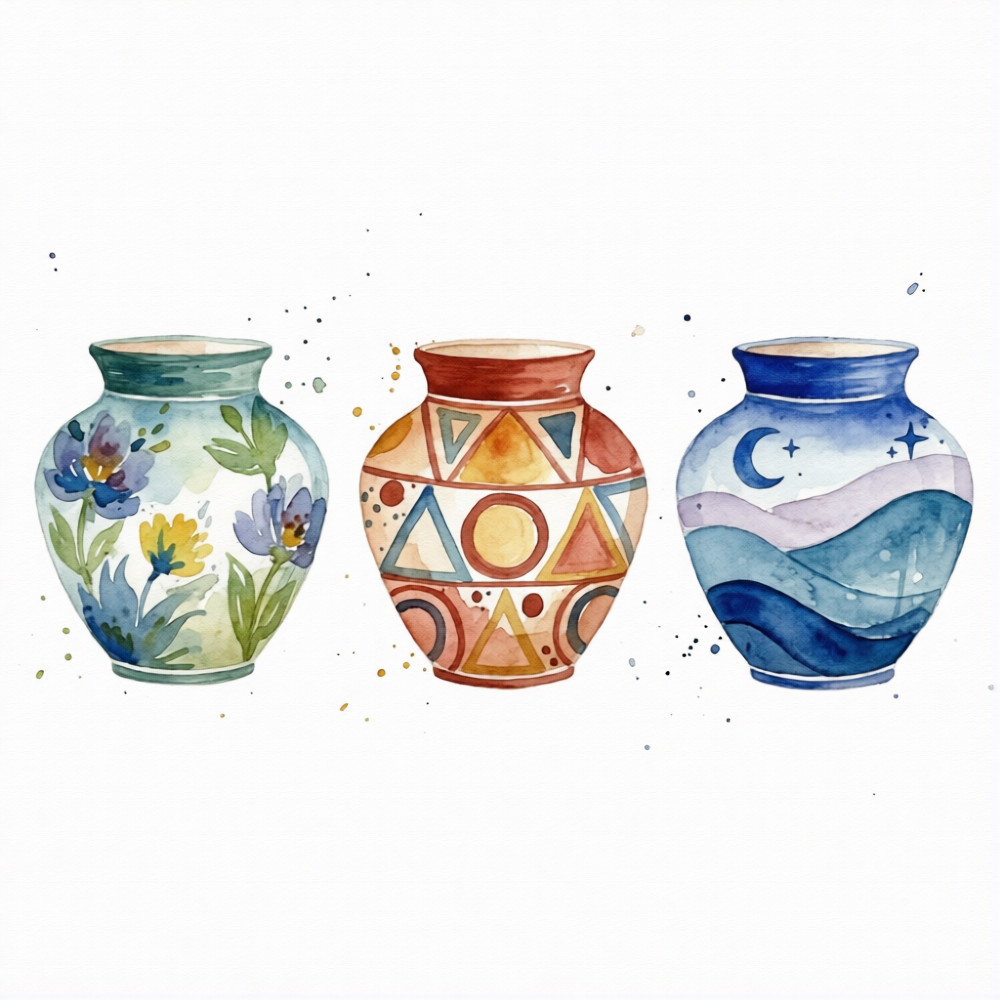
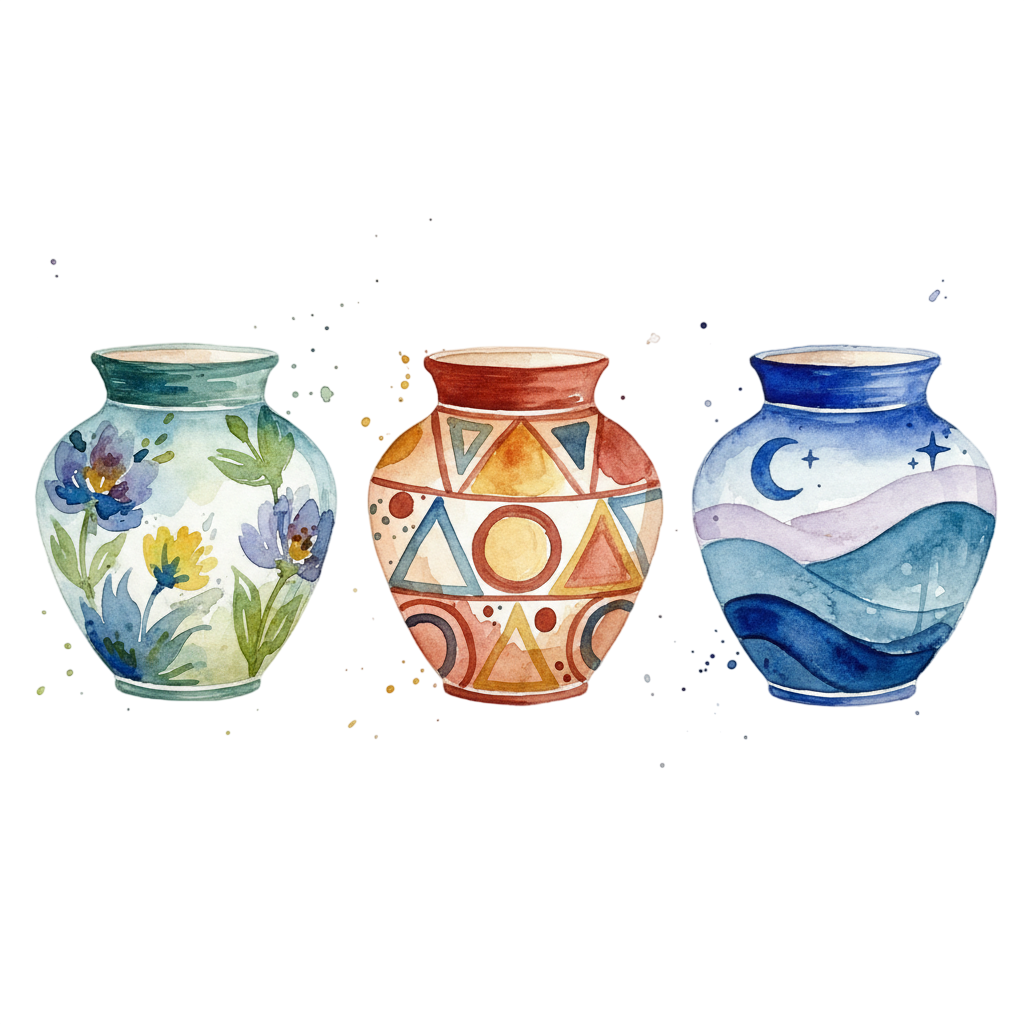
Update: refined features hover with universal pastel glow and improved layout

diff --git a/index.html b/index.html
@@ -3,68 +3,85 @@
 <head>
     <meta charset="UTF-8">
     <meta name="viewport" content="width=device-width, initial-scale=1.0">
-    <title>Document</title>
+    <title>Quiet Garden</title>
     <link rel="stylesheet" href="style.css">
 </head>
 <body>
     <header>
-  <nav class="navbar-center">
-    <ul class="nav-links left">
-      <li><a href="#hero">Home</a></li>
-      <li><a href="#features">Features</a></li>
-    </ul>
+        <nav class="navbar-center">
+            <ul class="nav-links left">
+                <li><a href="#hero">Home</a></li>
+                <li><a href="#features">Features</a></li>
+            </ul>
 
-    <div class="logo">
-      <img src="logo.png" alt="Quiet Garden Logo">
-    </div>
+            <div class="logo">
+                <img src="logo.png" alt="Quiet Garden Logo">
+            </div>
 
-    <ul class="nav-links right">
-      <li><a href="#about">About</a></li>
-      <li><a href="#contact">Contact</a></li>
-    </ul>
-  </nav>
-</header>
+            <ul class="nav-links right">
+                <li><a href="#about">About</a></li>
+                <li><a href="#contact">Contact</a></li>
+            </ul>
+        </nav>
+    </header>
+
     <main>
         <section class="hero" id="hero">
             <img src="shop.png" alt="Quiet Garden Storefront" class="hero-img">
             <div class="hero-content">
-                    <h1 class="hero-title">Quiet Garden</h1>
-                    <p class="hero-text">Where serenity grows</p>
+                <h1 class="hero-title">Quiet Garden</h1>
+                <p class="hero-text">Where serenity grows</p>
             </div>
         </section>
+
         <section class="features" id="features">
             <div class="feature">
-                <img src="flower.jpg" alt="Tiny Plants">
+                <div class="feature-img-wrapper">
+                    <img src="flower.png" alt="Tiny Plants">
+                </div>
                 <div class="feature-content">
                     <h2>Tiny Plants</h2>
                     <p>Small decorative pots, perfect for any corner of your home.</p>
                 </div>
             </div>
+
             <div class="feature">
-                <img src="DIY.png" alt="DIY Gardening Kit">
+                <div class="feature-img-wrapper">
+                    <img src="DIY.png" alt="DIY Gardening Kit">
+                </div>
                 <div class="feature-content">
                     <h2>DIY Gardening Kit</h2>
                     <p>All you need to nurture plants from seed to bloom</p>
                 </div>
             </div>
+
             <div class="feature">
-                <img src="pots.png" alt="Hand-Painted Pots">
+                <div class="feature-img-wrapper">
+                    <img src="pots.png" alt="Hand-Painted Pots">
+                </div>
                 <div class="feature-content">
                     <h2>Hand-Painted Pots</h2>
                     <p>Unique ceramics in pastel tones, perfect for decorating.</p>
                 </div>
             </div>
         </section>
+
         <section class="cta">
             <div class="cta-container">
                 <button id="shop-now">Shop Now</button>
             </div>
         </section>
     </main>
+
     <footer>
-        <div class="footer-logo"><img src="#" alt="Lucky Shrub logo"></div>
+        <div class="footer-logo">
+            <img src="#" alt="Lucky Shrub logo">
+        </div>
         <div class="footer-columns">
-            <ul><li>Contact</li><li>About</li></ul>
+            <ul>
+                <li>Contact</li>
+                <li>About</li>
+            </ul>
             <p>Copyright goes here</p>
         </div>
     </footer>

diff --git a/style.css b/style.css
@@ -129,35 +129,41 @@ body {
     text-align: center;
 }
 
-.feature img {
+.feature-img-wrapper {
+    display: block;
+    width: 100%;
+    transition: transform 0.3s ease, filter 0.3s ease;
+}
+
+.feature-img-wrapper:hover {
+    transform: translateY(-1.5px);
+    filter: drop-shadow(0 0 12px rgba(216, 151, 170, 0.5))
+}
+
+.feature-img-wrapper img {
+    display: block;
     width: 100%;
     max-width: 250px;
     height: auto;
-    margin-bottom: 1rem;
     border-radius: 8px;
-    box-shadow: 0 0 12px rgba(123, 160, 100, 0.35);
-    transition: transform 0.3s ease, box-shadow 0.3s ease;
+    transition: transform 0.3s ease, filter 0.3s ease;
 }
 
-.feature img:hover {
-    transform: translateY(-3px);
-    box-shadow: 0 0 18px rgba(123, 160, 100, 0.55);
-}
 
 .feature h2 {
     font-family: "Palatino Linotype", "Book Antiqua", Palatino, serif;
     font-size: 1.6rem;
-    margin-bottom: 0.75rem;
-    color: #4a4a4a;;
     font-weight: 400;
+    color: #4a4a4a;
     text-shadow: 0 1px 2px rgba(0,0,0,0.1);
+    margin-bottom: 0.75rem;
 }
 
 .feature p {
     font-family: Trebuchet MS, sans-serif;
     font-size: 1.05rem;
-    line-height: 1.5rem;
     color: #666666;
+    line-height: 1.5rem;
 }
 
 @media (max-width: 768px) {